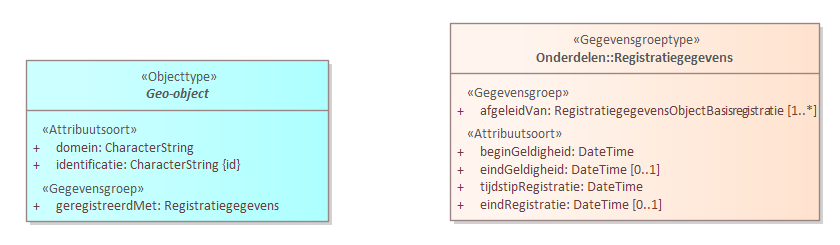
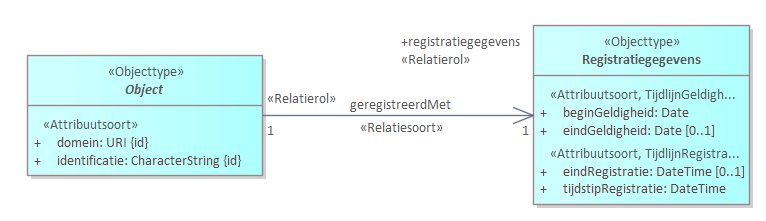
update historie
Review Pano verwerken

diff --git a/documentatie/historie.md b/documentatie/historie.md
@@ -6,17 +6,9 @@ Zoals gespecificeerd in [[EMSO]] worden zowel de tijdslijn geldigheid als de tij
 
 Om samenhang tussen objecten optimaal mogelijk te maken wordt een duidelijk onderscheid gemaakt tussen gegevens over objecten in ‘werkelijkheid’ en gegevens over de registratie van objecten in het model. Ook historiegegevens zijn daarom gescheiden van het object zelf. 
 
-![Object en registratiegegevens als objecttype](media/historie-2.png)
+![Object en registratiegegevens als objecttype](media/historie-1.png)
 
 Het scheiden van object en registratiegegevens komt voort uit de door ons opgestelde modelleerprincipes [[MODPR]]. Met name [principe 3](https://geonovum.github.io/disgeo-imsor/modelleerprincipes/#p3-alleen-directe-eigenschappen) legt uit dat dit nodig is om gegevens goed in samenhang te kunnen gebruiken. 
-
-<aside class="issue">
-  Dit weglaten of nuanceren. Gebruik van gevensgroepen zijn nog in tegenstrijd met onze modelleerprincipes. Gebruik in de high5 is puur pragmatisch.
-</aside>
-
-Er is een tweede optie die object en registratiegegevens iets minder streng scheidt, door de registratiegegevens in een gegevensgroep te zetten. Deze variant wordt beproefd in de High-5 van begin 2022: 
-
-![Object met registratiegegevens als gegevensgroep](media/historie-1.png)
 
 ## Historie op attribuut- of gegevensniveau
 
@@ -36,7 +28,6 @@ Van|Tot|waarde
 
 Volledig uitmodelleren van historie op gegevensniveau is niet per sé noodzakelijk. Historie op attribuutniveau, waarbij er sprake is van perioden waarin een bepaalde combinatie van waarden hoort bij een attribuut, is wellicht al voldoende. Als de combinatie verandert, dan verandert er iets in de historie:
 
-
 Van|Tot|waarde
 ---|---|------
 1-1-2005|1-1-2010|wonen
@@ -45,12 +36,7 @@ Van|Tot|waarde
 1-11-2019|1-4-2020|wonen, bijeenkomsten
 1-4-2020|1-3-2021|wonen
 
-We hebben om grip te krijgen op deze problematiek een casus uitgewerkt in verschillende modelleeropties. Een keuze is uiteindelijk niet gemaakt, deels omdat er in de expertgroep geen duidelijke voorkeursoptie was en deels omdat de use cases voor historie (en andere metadata) op gegevensniveau niet duidelijk genoeg waren om de argumenten voor een keuze te kunnen leveren. Het is daarom ook nog de vraag of de extra complexiteit, die met elk van deze opties geïntroduceerd wordt, te verantwoorden is. Optie C is in ieder geval niet toereikend als historie op gegevensniveau vereist is.
-
-
-<aside class="issue">
-  Waarom is optie C niet toereikend? Of wordt hier optie B bedoeld?
-</aside>
+We hebben om grip te krijgen op deze problematiek een casus uitgewerkt in verschillende modelleeropties die in [](#historie-casus-informatiemodel-boom) te vinden zijn. Deze modelleeropties zijn door de expertgroep DiSGeo informatiemodellering nauwgezet overwogen. Daarbij kwam naar voren dat optie A en C vergelijkbaar waren, waarbij optie C uiteindelijk de voorkeur van de expertgroep kreeg. Wel bleek hierbij dat optie C niet toereikend is als historie op gegevensniveau vereist is, in het specifieke geval dat een gegeven meerdere keren voor kan komen (zoals bij het voorbeeld in de tabel hierboven). 
 
 ## Historie casus "Informatiemodel Boom"
 
